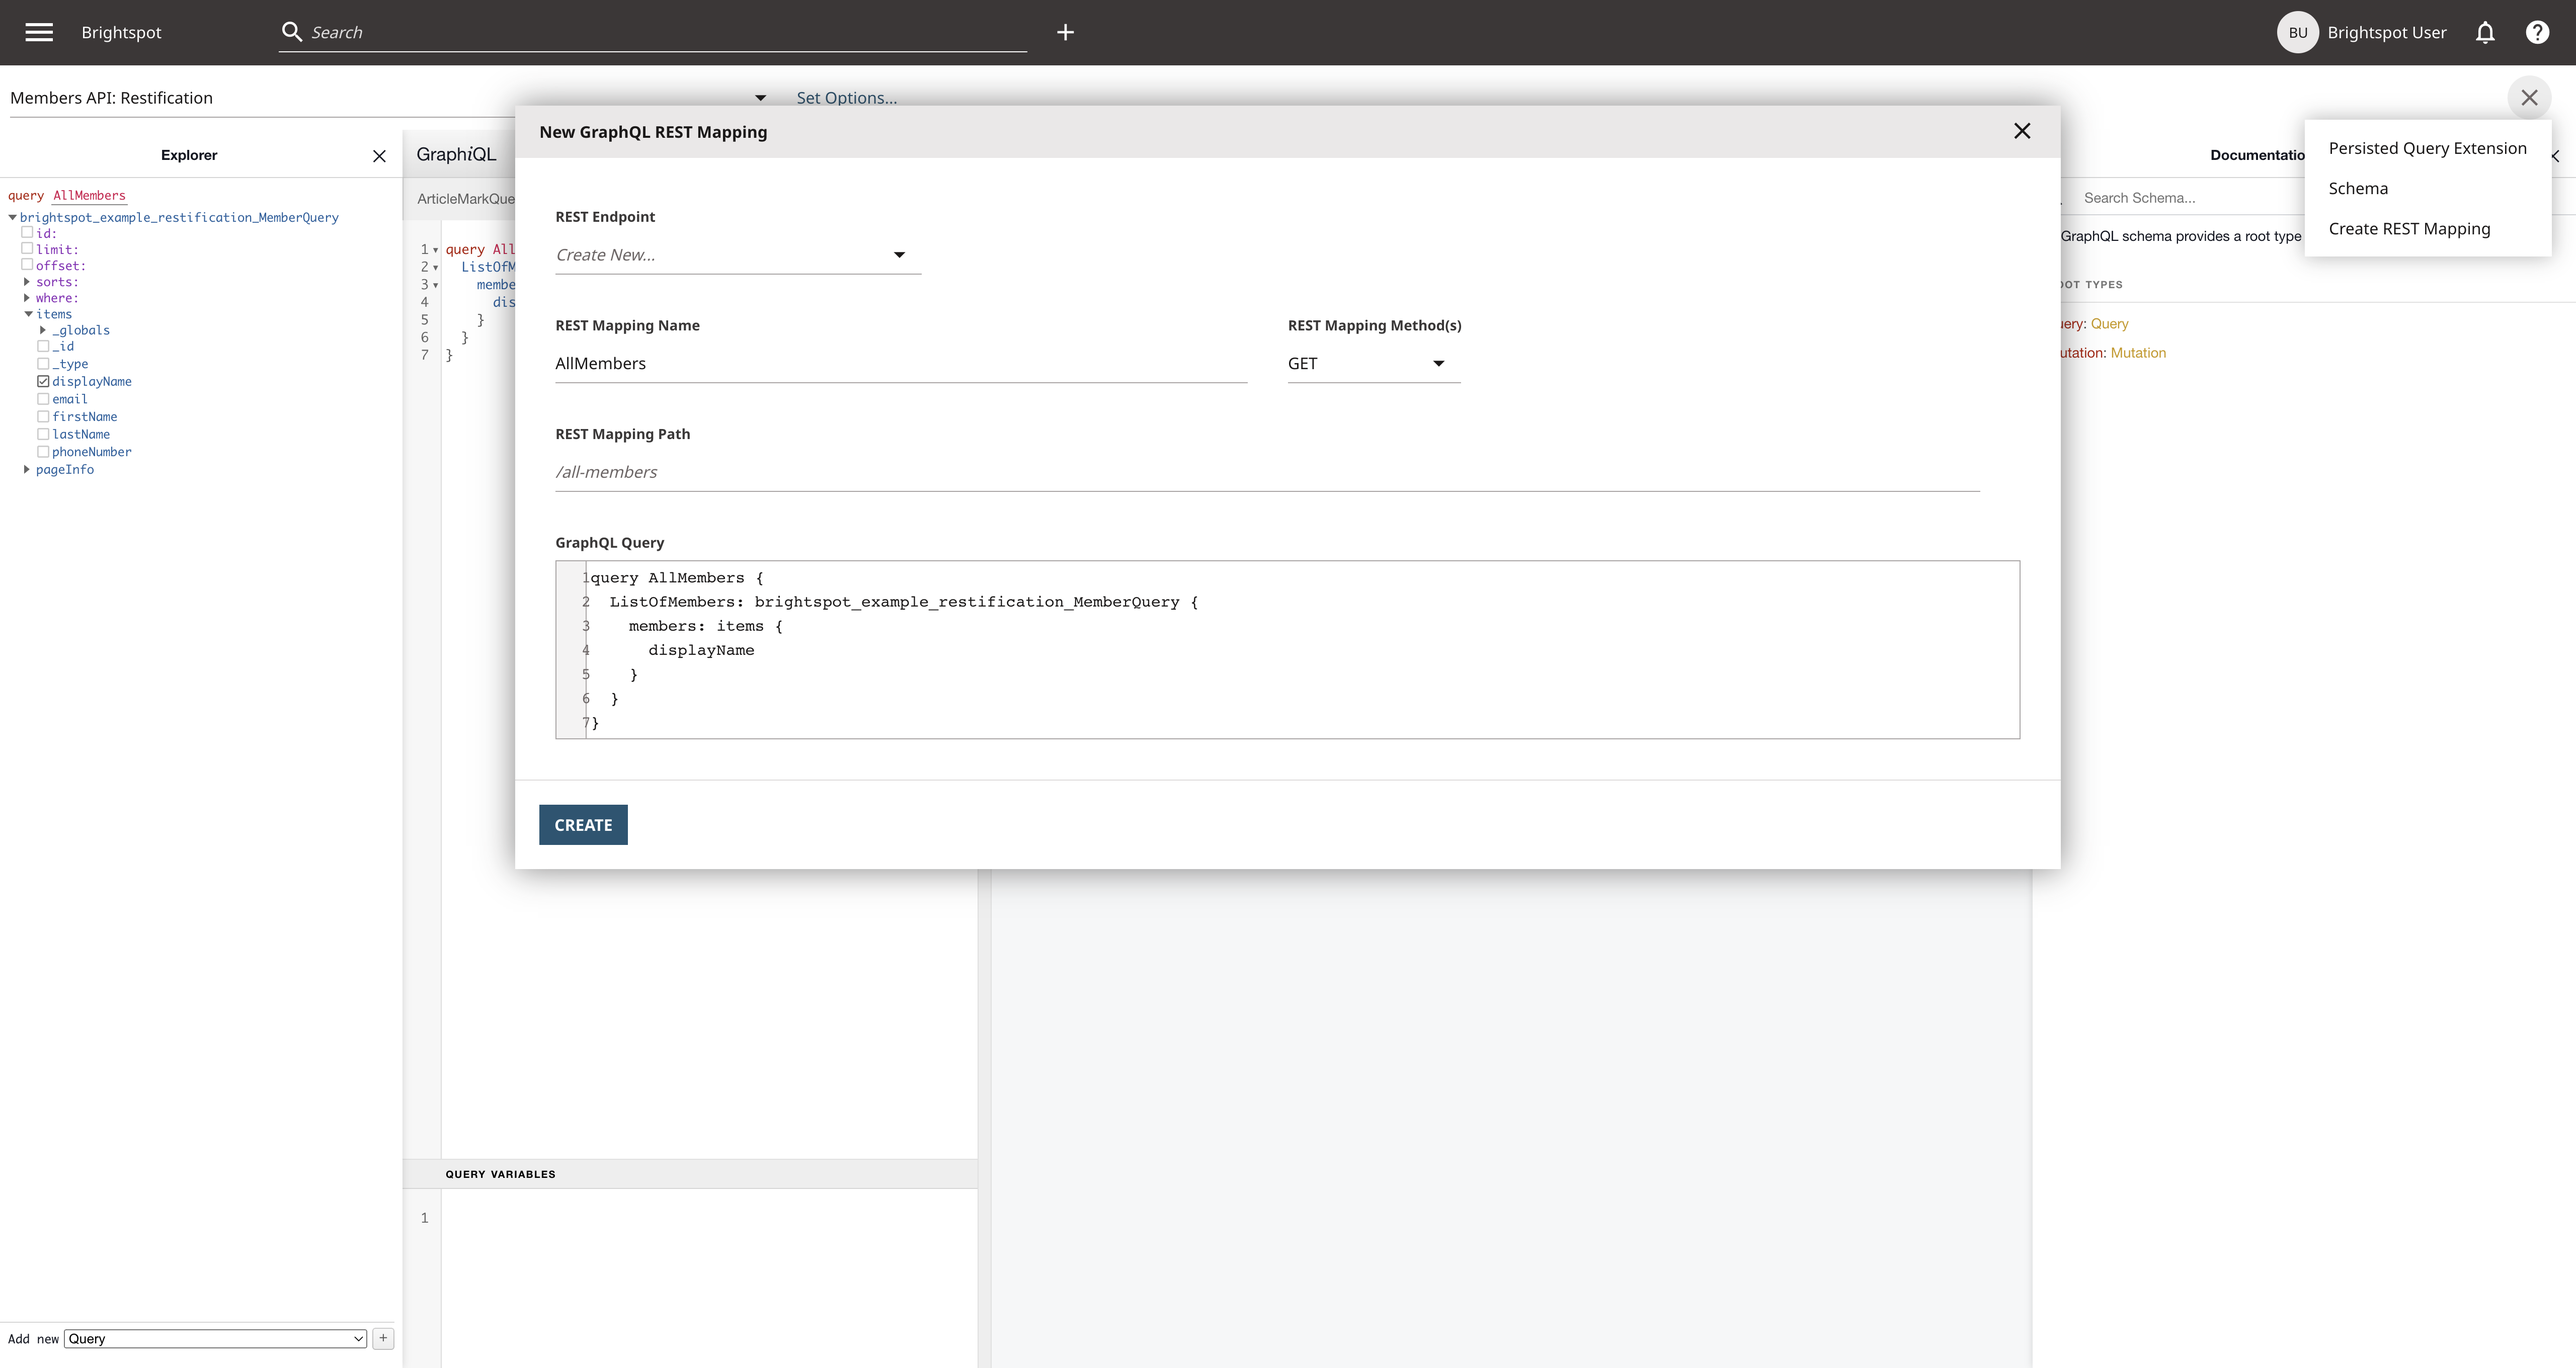
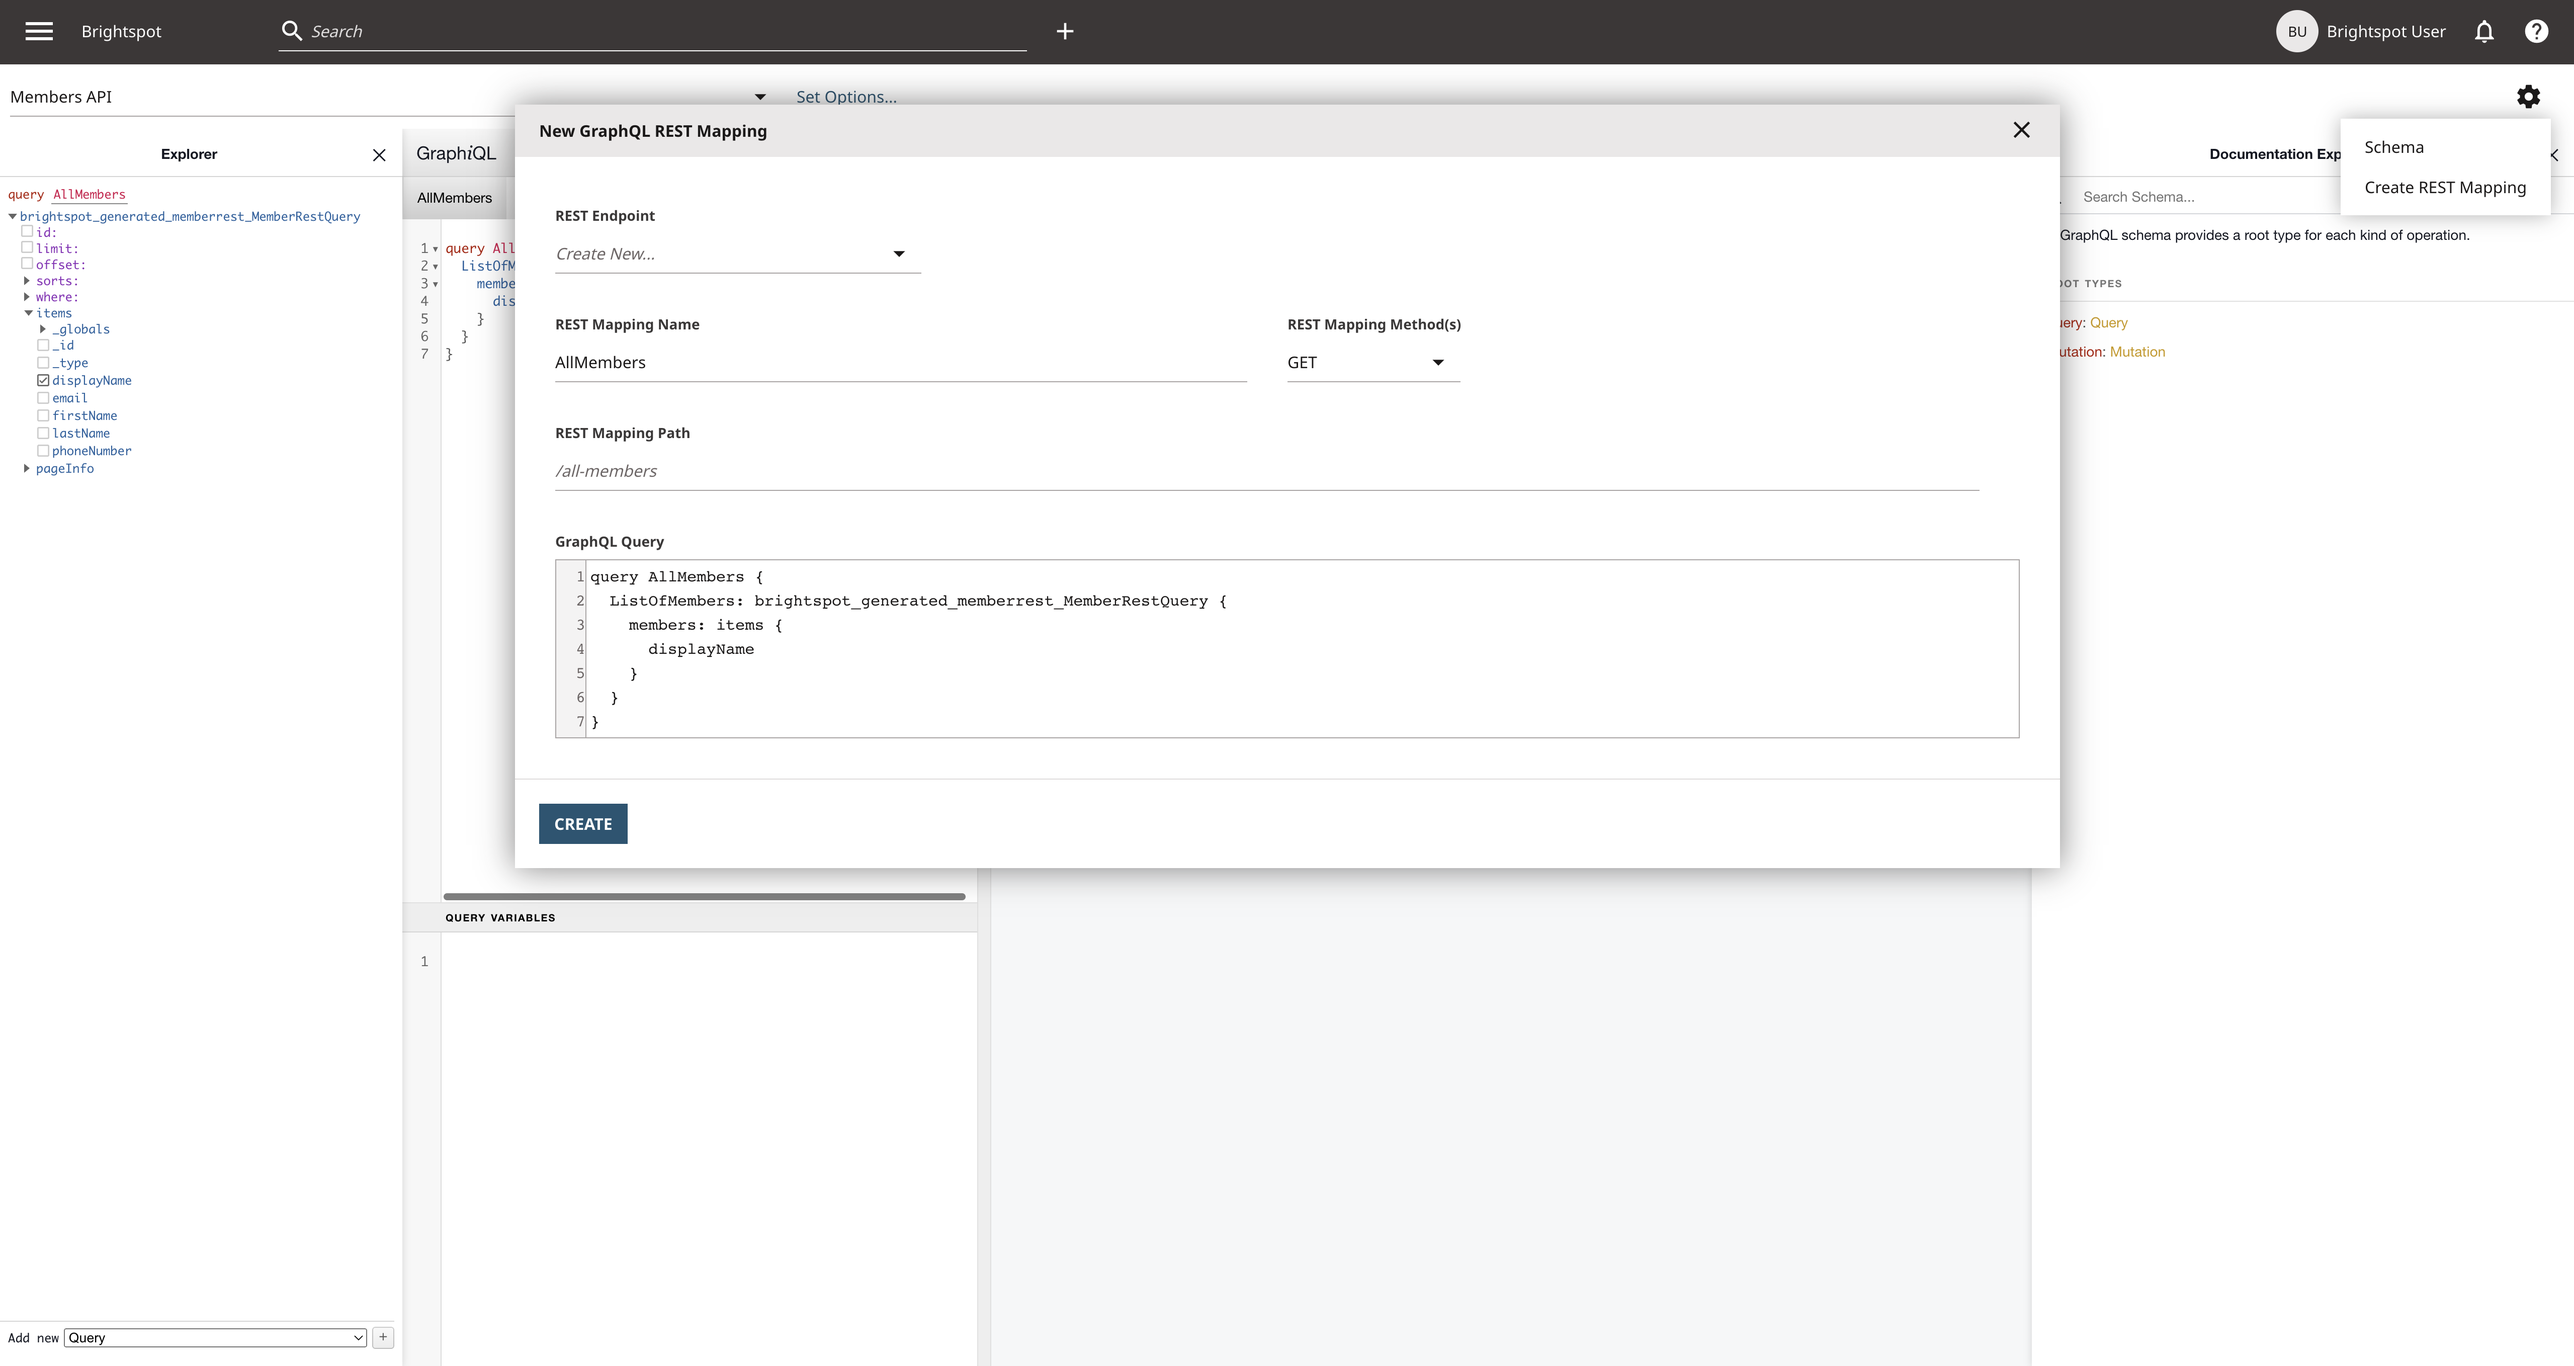
Update README

diff --git a/restification/README.md b/restification/README.md
@@ -40,9 +40,39 @@ Compiled successfully!
 
 The front-end application will not function correctly until the steps are completed.
 
-## Step 1: Building the Query and Create REST Mapping
+## Step 1: Create Content Member (REST) Content Type
 
-In Brightspot from the menu **&#x2630;**, navigate to **Developer** &rarr; **GraphQL Explorer** and select **Members API: Restification** from the **Select GraphQL Endpoint** dropdown.
+In Brightspot from the navigation menu **&#x2630;**, under **Admin**, select **Content Types**.
+
+Under the **New Content Type** form, for **Name**, enter **Member (REST)** as the content type name. Under **Items**, select the dropdown field, For the first field select **Text Field**. In the text field form, for name, enter **Display Name** and scroll down to the bottom of the form and toggle **Search Filter?** and **Required** on:
+
+| Text Field: Display Name                                                                     |
+| -------------------------------------------------------------------------------------------- |
+| <img alt="Text Field: Display Name " src="documentation/images/text-field-display-name.png"> |
+
+Add three more text fields, one for **First Name**, **Last Name** and **Email**. Lastly add a **Number Field** with the name **Phone Number**
+
+Then click the **SAVE** button at the very bottom.
+
+| Member (REST) Content Type                                                                     |
+| ---------------------------------------------------------------------------------------------- |
+| <img alt="Member (REST) Content Type" src="documentation/images/member-rest-content-type.png"> |
+
+## Step 2: Create Content Management API (CMA) Endpoint
+
+With the content type created, using the navigation menu **&#x2630;**, under **Admin**, select **APIs**. On the left pane, under **Create**, use the drop down to select **GraphQL Content Management API** and click **New** to be presented with the form to create the API.
+
+In the form, for **Name** enter **Members API**. Under **Read Types** and **Read/Write Types**, using the drop down menu select **Member (REST)**.
+
+Click Save.
+
+| Members API (CMA) Endpoint                                                             |
+| -------------------------------------------------------------------------------------- |
+| <img alt="Members API (CMA) Endpoint " src="documentation/images/members-api-cma.png"> |
+
+## Step 3: Building the Query and Create REST Mappings
+
+From the navigation menu **&#x2630;**, go to **Developer** &rarr; **GraphQL Explorer** and select **Members API** from the **Select GraphQL Endpoint** dropdown.
 
 In this example, the query created retrieves all members, restricting the data returned to only the members' display name. One of the benefits using GraphQL to created the REST endpoings is the ability to use [GraphQL's Aliases](https://graphql.org/learn/queries/#aliases) to alter the shape of the data.
 
@@ -50,7 +80,7 @@ Copy and paste the followng query into the explorer:
 
 ```
 query AllMembers {
-  ListOfMembers: brightspot_example_restification_MemberQuery {
+  ListOfMembers: brightspot_generated_memberrest_MemberRestQuery {
     members: items {
       displayName
     }
@@ -58,7 +88,7 @@ query AllMembers {
 }
 ```
 
-`brightspot_example_restification_MemberQuery` simply becomes `ListOfMembers`, `items` becomes `members` and adds that extra layer of readability.
+`brightspot_generated_memberrest_MemberRestQuery` simply becomes `ListOfMembers`, `items` becomes `members` and adds that extra layer of readability.
 
 To test the query, click the play/execute button.
 
@@ -66,7 +96,7 @@ To test the query, click the play/execute button.
 
 After testing the query, create the first REST Map, click the Cog icon in the GraphQL Explorer (located on the right hand side of the page) and select **Create REST Mapping**. The **New GraphQL REST Mapping** form pops up:
 
-| REST Mapping Endpoint Form                                                                 |
+| GraphQL Explorer with REST Mapping Endpoint Form                                           |
 | ------------------------------------------------------------------------------------------ |
 | <img alt="REST Mapping Endpoint Form" src="documentation/images/all-members-rest-map.png"> |
 
@@ -79,9 +109,9 @@ The **REST Endpoint** is pre-selected with **Create New...** being the first RES
 
 As this is the first mapping, the a new form pops up to create the REST API mapping, with the title **New REST GraphQL Mapping API**
 
-| REST Mapping API Form                                                              |
-| ---------------------------------------------------------------------------------- |
-| <img alt="REST Mapping API Form" src="documentation/images/rest-mapping-form.png"> |
+| REST GraphQL Mapping API Form                                                             |
+| ----------------------------------------------------------------------------------------- |
+| <img alt="REST GraphQL Mapping API Form" src="documentation/images/members-api-rest.png"> |
 
 1. Under **Name**, enter 'Members API'.
 2. Under Access, select **Anyone**. Access by default is set to inherit based on the endpoint used and in this example
@@ -95,7 +125,7 @@ Repeat the process using the following query:
 
 ```
 query Member($arguments: [String]) {
-  Member: brightspot_example_restification_MemberQuery(
+  Member: brightspot_generated_memberrest_MemberRestQuery(
     where: { predicate: "displayName = ?", arguments: $arguments }
   ) {
     members: items {
@@ -118,18 +148,18 @@ Test the query to confirm the results are as expected.
 
 Create the REST Mapping for the query:
 
-| REST Mapping Endpoint Form: GET Member                                                    |
-| ----------------------------------------------------------------------------------------- |
-| <img alt="REST Mapping Endpoint Form" src="documentation/images/member-rest-mapping.png"> |
+| REST Mapping Endpoint Form: GET Member                                                       |
+| -------------------------------------------------------------------------------------------- |
+| <img alt="REST Mapping Endpoint Form: GET Member" src="documentation/images/get-member.png"> |
 
 The form will be automatically completed but under 'REST Mapping Method(s)'.
 
-Repeat the process once more but copying and pasting this mutation:
+Repeat the process once more, this time copying and pasting this mutation:
 
 ```
 mutation CreateMember($displayName: String = "", $firstName: String = "", $lastName: String = "", $email: String = "", $phoneNumber: Float = 1.5) {
-  brightspot_example_restification_MemberSave(
-    diffs: {brightspot_example_restification_MemberDiff: {
+  brightspot_generated_memberrest_MemberRestSave(
+    diffs: {brightspot_generated_memberrest_MemberRestDiff: {
       displayName: $displayName,
       firstName: $firstName,
       lastName: $lastName,
@@ -146,31 +176,32 @@ mutation CreateMember($displayName: String = "", $firstName: String = "", $lastN
 }
 ```
 
-This mutation will become a POST request to create a new member. As it's a mutation, the **REST Mapping Method** selected POST automatically:
+This mutation will become a POST request to create a new member. As it's a mutation, the **REST Mapping Method** selects POST automatically:
 
-| REST Mapping Endpoint Form: POST Member                                                     |
-| ------------------------------------------------------------------------------------------- |
-| <img alt="REST Mapping Endpoint Form" src="documentation/images/create-member-mapping.png"> |
+| REST Mapping Endpoint Form: Create Member                                           |
+| ----------------------------------------------------------------------------------- |
+| <img alt="REST Mapping Endpoint Form" src="documentation/images/create-member.png"> |
+
+## Step 4: Testing the REST Endpoints
 
 1. Test the GET endpoint by visiting [http://localhost/members-api/all-members](http://localhost/members-api/all-members) into your browser.
 2. Test the second REST mapping endpoint with a GET request made with the display name as the parameter by visiting 'http://localhost/members-api/member?arguments=Member_Display_Name_Here' in your browser.
+3. Test the POST request from the command line using cURL, copy and paste the following:
 
-You can test the POST request from the command line using cURL, copy and paste the following:
+   ```
+   curl --location --request POST 'http://localhost/members-api/create-member' \
+   --form 'displayName="TestUser"' \
+   --form 'firstName="TestFirstName"' \
+   --form 'lastName="TestSurname"' \
+   --form 'email="test@test.com"' \
+   --form 'phoneNumber="1112223333"'
+   ```
 
-```
-curl --location --request POST 'http://localhost/members-api/create-member' \
---form 'displayName="TestUser"' \
---form 'firstName="TestFirstName"' \
---form 'lastName="TestSurname"' \
---form 'email="test@test.com"' \
---form 'phoneNumber="1112223333"'
-```
+   Output:
 
-Output:
-
-```
-{"data":{"brightspot_example_restification_MemberSave":{"displayName":"TestUser","firstName":"TestFirstName","lastName":"TestSurname","email":"test@test.com","phoneNumber":1.112223333E9}}}
-```
+   ```
+   {"data":{"brightspot_example_restification_MemberSave":{"displayName":"TestUser","firstName":"TestFirstName","lastName":"TestSurname","email":"test@test.com","phoneNumber":1.112223333E9}}}
+   ```
 
 You will now see that user is added by either navigating to Brightspot and see that **Member (REST)** content with the data just sent has been created or by navigating to [http://localhost/members-api/all-members](http://localhost/members-api/all-members) and see the object: ` {"displayName":"TestUser"}` has been added to the array of members.
 
